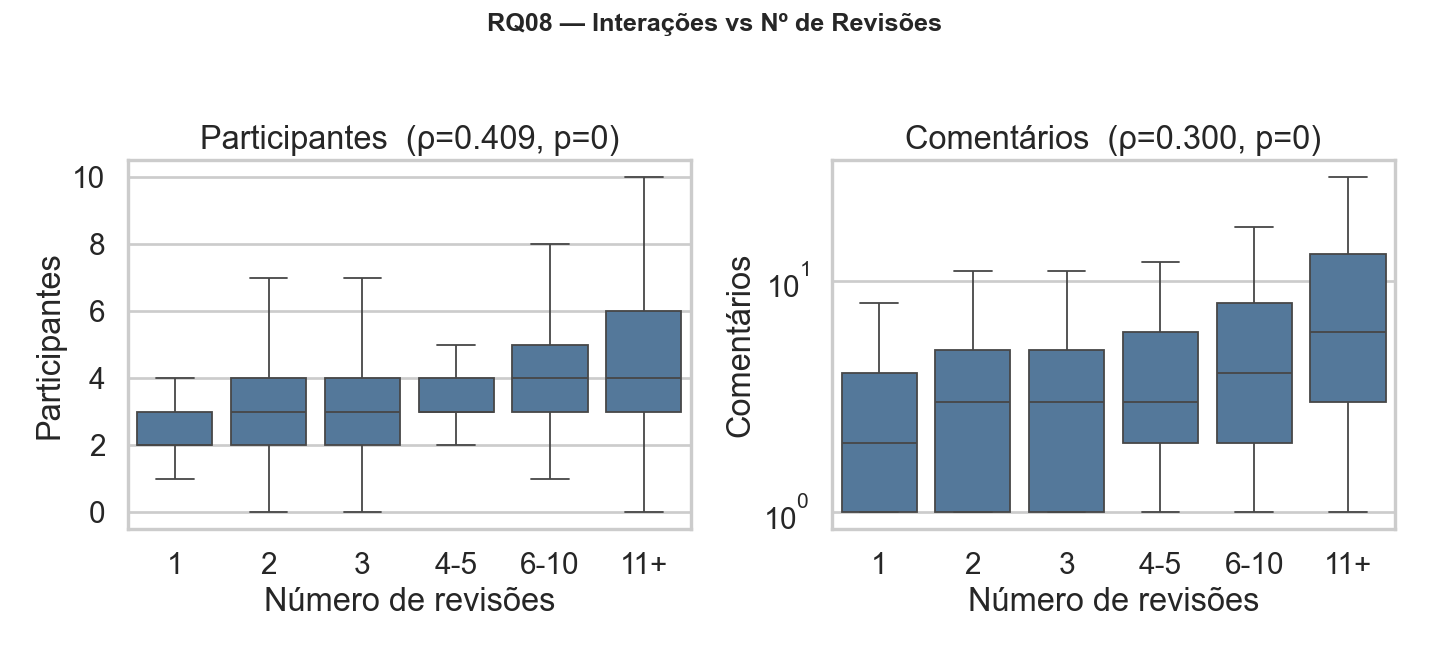
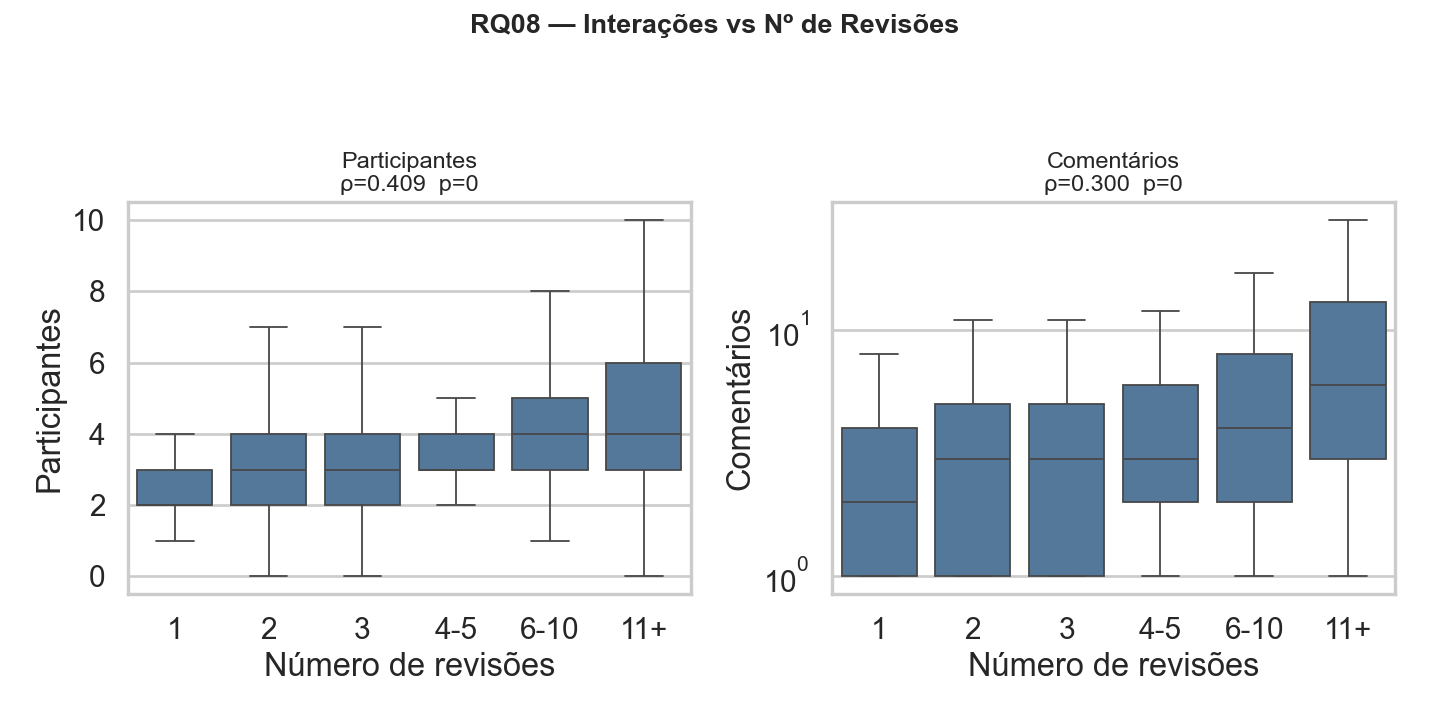
feat: update plot dimensions and titles for RQ figures in plots_rqs.py

diff --git a/Laboratorios/Lab-03/plots_rqs.py b/Laboratorios/Lab-03/plots_rqs.py
@@ -85,7 +85,8 @@ def faixas_reviews(s):
 
 def plot_status(df, rq, dimensao, metricas, corr_df, out_dir):
     n = len(metricas)
-    fig, axes = plt.subplots(1, n, figsize=(5.5 * n, 5), squeeze=False)
+    width = max(7.0, 5.5 * n)
+    fig, axes = plt.subplots(1, n, figsize=(width, 5.5), squeeze=False)
     for ax, (col, label, logscale) in zip(axes[0], metricas):
         sub = df[[col, "status_label"]].copy()
         if logscale:
@@ -93,6 +94,7 @@ def plot_status(df, rq, dimensao, metricas, corr_df, out_dir):
         sns.boxplot(
             data=sub, x="status_label", y=col, ax=ax,
             order=["MERGED", "CLOSED"], showfliers=False,
+            hue="status_label", legend=False,
             palette={"MERGED": "#4c9f70", "CLOSED": "#c0504d"},
         )
         if logscale:
@@ -100,10 +102,10 @@ def plot_status(df, rq, dimensao, metricas, corr_df, out_dir):
         ax.set_xlabel("Status do PR")
         ax.set_ylabel(label)
         info = rho_de(corr_df, rq, col)
-        suffix = f"  (ρ={info[0]:.3f}, p={info[1]:.2g})" if info else ""
-        ax.set_title(f"{label}{suffix}")
-    fig.suptitle(f"{rq} — {dimensao} vs Status do PR", fontsize=14, fontweight="bold")
-    fig.tight_layout(rect=[0, 0, 1, 0.95])
+        suffix = f"\nρ={info[0]:.3f}  p={info[1]:.2g}" if info else ""
+        ax.set_title(f"{label}{suffix}", fontsize=13)
+    fig.suptitle(f"{rq} — {dimensao} vs Status do PR", fontsize=15, fontweight="bold")
+    fig.tight_layout(rect=[0, 0, 1, 0.93])
     out_path = out_dir / f"{rq.lower()}_{dimensao.lower().replace(' ', '_')}_status.png"
     fig.savefig(out_path, dpi=130)
     plt.close(fig)
@@ -116,7 +118,8 @@ def plot_reviews(df, rq, dimensao, metricas, corr_df, out_dir):
     df = df.dropna(subset=["reviews_faixa"])
 
     n = len(metricas)
-    fig, axes = plt.subplots(1, n, figsize=(5.5 * n, 5), squeeze=False)
+    width = max(7.0, 5.5 * n)
+    fig, axes = plt.subplots(1, n, figsize=(width, 5.5), squeeze=False)
     for ax, (col, label, logscale) in zip(axes[0], metricas):
         sub = df[[col, "reviews_faixa"]].copy()
         if logscale:
@@ -130,10 +133,10 @@ def plot_reviews(df, rq, dimensao, metricas, corr_df, out_dir):
         ax.set_xlabel("Número de revisões")
         ax.set_ylabel(label)
         info = rho_de(corr_df, rq, col)
-        suffix = f"  (ρ={info[0]:.3f}, p={info[1]:.2g})" if info else ""
-        ax.set_title(f"{label}{suffix}")
-    fig.suptitle(f"{rq} — {dimensao} vs Nº de Revisões", fontsize=14, fontweight="bold")
-    fig.tight_layout(rect=[0, 0, 1, 0.95])
+        suffix = f"\nρ={info[0]:.3f}  p={info[1]:.2g}" if info else ""
+        ax.set_title(f"{label}{suffix}", fontsize=13)
+    fig.suptitle(f"{rq} — {dimensao} vs Nº de Revisões", fontsize=15, fontweight="bold")
+    fig.tight_layout(rect=[0, 0, 1, 0.93])
     out_path = out_dir / f"{rq.lower()}_{dimensao.lower().replace(' ', '_')}_reviews.png"
     fig.savefig(out_path, dpi=130)
     plt.close(fig)
